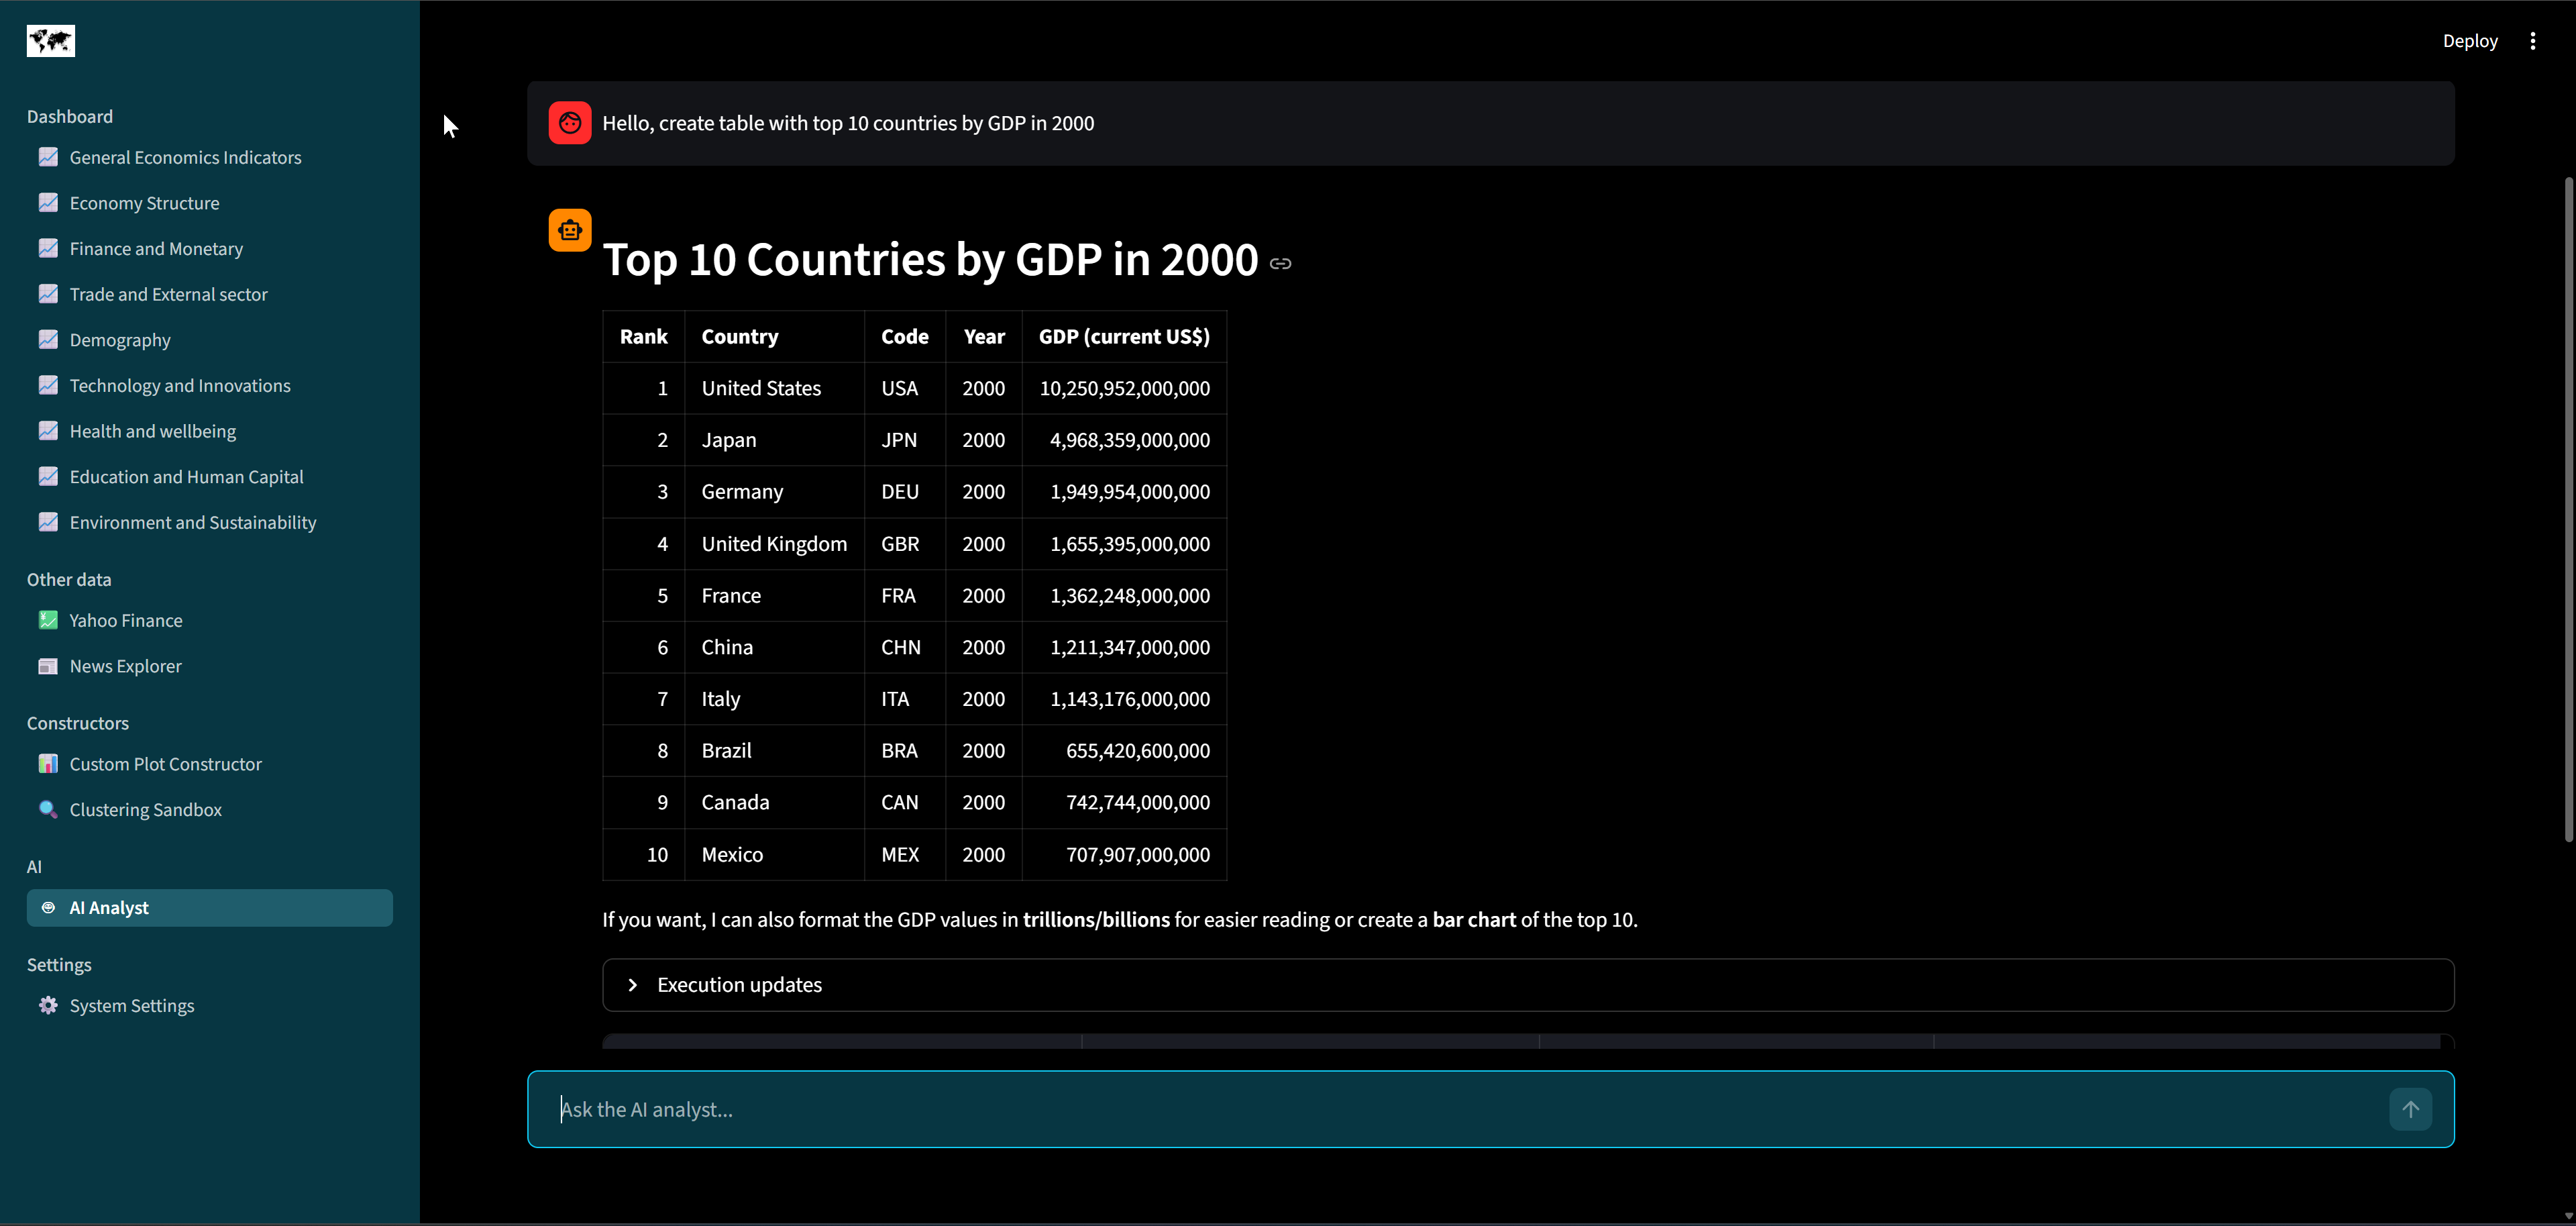
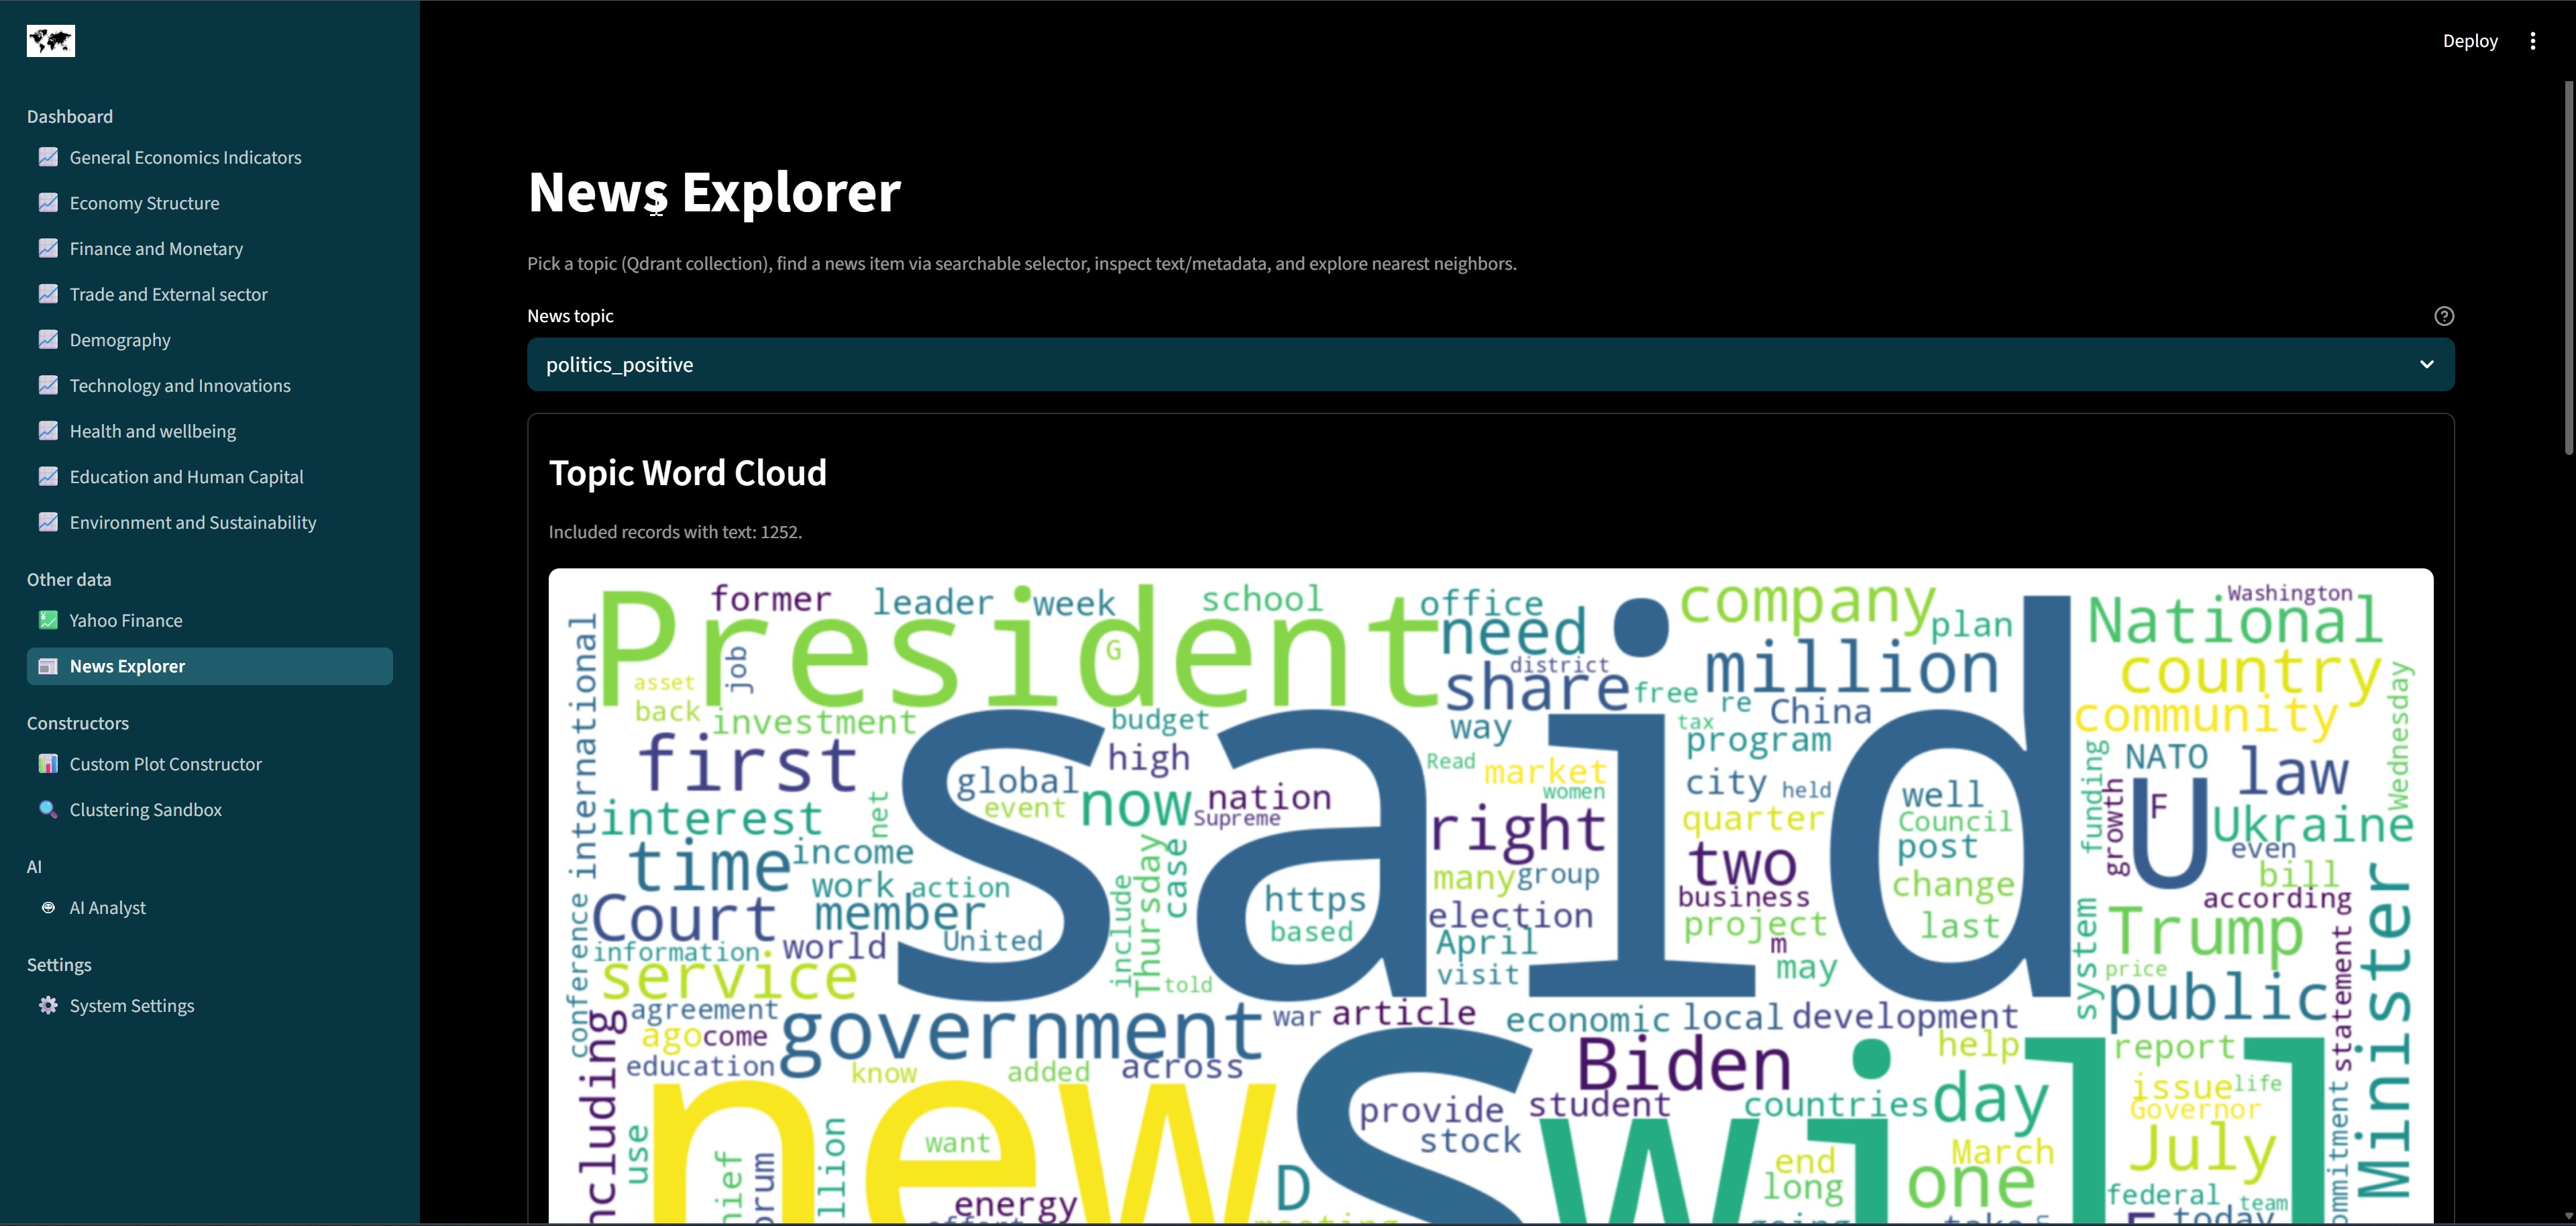
update README.md

diff --git a/README.md b/README.md
@@ -1,55 +1,78 @@
 # Ultimate Macroeconomics Dashboard
 
+Technical stack (not exhaustive):
+
+![Visual Studio Code](https://img.shields.io/badge/Visual%20Studio%20Code-0078d7.svg?style=for-the-badge&logo=visual-studio-code&logoColor=white)
+![Google Gemini](https://img.shields.io/badge/google%20gemini-8E75B2?style=for-the-badge&logo=google%20gemini&logoColor=white)
+![Claude](https://img.shields.io/badge/Claude-D97757?style=for-the-badge&logo=claude&logoColor=white)
+![GitHub Copilot](https://img.shields.io/badge/github_copilot-8957E5?style=for-the-badge&logo=github-copilot&logoColor=white)
 ![Docker](https://img.shields.io/badge/docker-%230db7ed.svg?style=for-the-badge&logo=docker&logoColor=white)
+![GitHub](https://img.shields.io/badge/github-%23121011.svg?style=for-the-badge&logo=github&logoColor=white)
 ![Python](https://img.shields.io/badge/python-3670A0?style=for-the-badge&logo=python&logoColor=ffdd54)
 ![uv](https://img.shields.io/badge/uv-%23DE5FE9.svg?style=for-the-badge&logo=uv&logoColor=white)
+![PyPi](https://img.shields.io/badge/pypi-%23ececec.svg?style=for-the-badge&logo=pypi&logoColor=1f73b7)
 ![Streamlit](https://img.shields.io/badge/Streamlit-%23FE4B4B.svg?style=for-the-badge&logo=streamlit&logoColor=white)
 ![FastAPI](https://img.shields.io/badge/FastAPI-005571?style=for-the-badge&logo=fastapi)
+![Pydantic](https://img.shields.io/badge/pydantic-%23E92063.svg?style=for-the-badge&logo=pydantic&logoColor=white)
+![Polars](https://img.shields.io/badge/polars-0075ff?style=for-the-badge&logo=polars&logoColor=white)
+![Plotly](https://img.shields.io/badge/Plotly-%233F4F75.svg?style=for-the-badge&logo=plotly&logoColor=white)
 ![LangGraph](https://img.shields.io/badge/langgraph-%231C3C3C.svg?style=for-the-badge&logo=langgraph&logoColor=white)
 ![Postgres](https://img.shields.io/badge/postgres-%23316192.svg?style=for-the-badge&logo=postgresql&logoColor=white)
 ![Qdrant](https://img.shields.io/badge/qdrant-%23dc2626.svg?style=for-the-badge&logo=qdrant&logoColor=white)
+![DuckDuckGo](https://img.shields.io/badge/duckduckgo-de5833?style=for-the-badge&logo=duckduckgo&logoColor=white)
 
-[`Ultimate Macroeconomics Dashboard`](https://github.com/alexveider1/Ultimate-Macroeconomics-Dashboard) is an AI-powered macroeconomic analytics suite: a Streamlit dashboard backed by Postgres + Qdrant, plus FastAPI services for an LLM analyst, forecasting, clustering, on-demand ingestion, and a Python sandbox. **70+** World Bank indicators, **30 000+** news articles, **50+** Yahoo Finance tickers, **80+** prebuilt charts.
+[`Ultimate Macroeconomics Dashboard`](https://github.com/alexveider1/Ultimate-Macroeconomics-Dashboard) is an AI-powered macroeconomic analytics tool: a Streamlit dashboard backed by Postgres + Qdrant, plus FastAPI services for an AI analyst, forecasting, clustering, on-demand data ingestion, and a Python sandbox. **70+** World Bank indicators, **30 000+** news articles, **50+** Yahoo Finance tickers, **150+** prebuilt charts.
 
-Full stack: nine Docker containers — `db`, `vector_db`, `downloader_general`, `app`, `agent`, `forecaster`, `clustering`, `downloader_extra`, `python_sandbox`. Architecture details and conventions live in [`CLAUDE.md`](CLAUDE.md); deep configuration lives in [`_container_data/config.yaml`](_container_data/config.yaml).
+The full stack consists of 9 `Docker` containers — `db`, `vector_db`, `downloader_general`, `app`, `agent`, `forecaster`, `clustering`, `downloader_extra`, and `python_sandbox`. The project follows a strict micro-service design, with each container responsible for one capability:
+
+* `db` — relational database (`PostgreSQL`) for tabular data from `World Bank Data API` and `Yahoo Finance`.
+* `vector_db` — vector database (`Qdrant`) for news article embeddings sourced from the `Webz.io` open dataset.
+* `downloader_general` — one-shot job that fetches the initial dataset (World Bank, Yahoo Finance, news) into the databases.
+* `app` — the `Streamlit` dashboard itself (this is what the user opens in the browser).
+* `agent` — `FastAPI` backend hosting the multi-agent AI analyst (LangGraph supervisor + specialised workers).
+* `forecaster` — `FastAPI` micro-service for time-series forecasting (`pmdarima`, `prophet`, `chronos`).
+* `clustering` — `FastAPI` micro-service for unsupervised clustering (KMeans, DBSCAN).
+* `downloader_extra` — `FastAPI` micro-service that downloads additional World Bank indicators on demand.
+* `python_sandbox` — `FastAPI` sandbox that executes LLM-generated code in an isolated environment.
 
 ## Quick start
 
-Prerequisites: Docker with the Compose plugin. NVIDIA GPU is optional (improves the forecaster).
+Prerequisites: Docker (with the Compose plugin). An NVIDIA GPU is optional, though it significantly improves the forecaster's performance.
 
 ```bash
-# 1. Clone
+# 1. Clone repo
 git clone https://github.com/alexveider1/Ultimate-Macroeconomics-Dashboard
 cd Ultimate-Macroeconomics-Dashboard/
 
-# 2. Create the env file (fill in your secrets)
+# 2. Create the `.env` file (fill in your secrets)
 cp _container_data/.env.example _container_data/.env
 $EDITOR _container_data/.env
 
-# 3. Point the agent at an OpenAI-compatible LLM
-$EDITOR _container_data/config.yaml      # set shared.openai_* keys
+# 3. Set the shared.openai_* keys in `_container_data/config.yaml`
+$EDITOR _container_data/config.yaml
 
-# 4. (No GPU) remove the `deploy:` block under `forecaster:` in docker-compose.yaml
+# 4. If no CUDA-capable GPU is available, remove the `deploy` block under `forecaster:` in docker-compose.yaml
+$EDITOR docker-compose.yaml
 
 # 5. Build and run
 docker compose up --build
 ```
 
-Open <http://localhost:8501>. First boot does a one-shot ingestion (~1–2h) that fills both databases; the dashboard stays available while it runs.
+On first boot, the stack downloads the datasets and inserts them into both databases (relational and vector). How long this takes depends heavily on your network speed, but it usually takes around 30 minutes. The dashboard is not available while the data is downloading; once the download completes, it becomes available at <http://localhost:8501>.
 
 ### Required `.env` variables
 
-| Variable                   | Used by                       | Purpose                                                                |
-| -------------------------- | ----------------------------- | ---------------------------------------------------------------------- |
-| `POSTGRES_USER`            | `db`, `downloader_general`, `downloader_extra`, `app` | Postgres superuser created natively by the `postgres:18` image on first boot. |
-| `POSTGRES_PASSWORD`        | same                          | Password for the superuser.                                            |
-| `POSTGRES_DB`              | `db`                          | Default database created on first boot (typically `postgres`).         |
-| `POSTGRES_LLM_USER`        | `downloader_general`, `agent`, `app` | Read-only role used by the AI analyst and the dashboard's bulk reads to query the database. |
-| `POSTGRES_LLM_PASSWORD`    | same                          | Password for the read-only role (rotatable; takes effect on next boot).|
-| `QDRANT__SERVICE__API_KEY` | `vector_db`, `agent`, `app`   | Bearer token protecting the Qdrant HTTP API.                           |
-| `OPENAI_API_KEY`           | `agent`                       | API key for the LLM/embedding provider in `config.yaml`.               |
+| Variable                   | Purpose                                                                |
+| -------------------------- | ---------------------------------------------------------------------- |
+| `POSTGRES_USER`            | Postgres superuser created natively by the `postgres:18` image on first boot. |
+| `POSTGRES_PASSWORD`        | Password for the superuser.                                            |
+| `POSTGRES_DB`              | Default database created on first boot (typically `postgres`).         |
+| `POSTGRES_LLM_USER`        | Read-only role used by the AI analyst and the dashboard's bulk reads to query the database. |
+| `POSTGRES_LLM_PASSWORD`    | Password for the read-only role (rotatable; takes effect on next boot). |
+| `QDRANT__SERVICE__API_KEY` | Bearer token protecting the Qdrant HTTP API.                           |
+| `OPENAI_API_KEY`           | API key for the LLM/embedding provider in `config.yaml`.               |
 
-> Never commit `_container_data/.env`. It is gitignored.
+> Never commit `_container_data/.env`
 
 ### Required `config.yaml` keys
 
@@ -66,21 +89,7 @@ Everything else has working defaults. See [`_container_data/config.yaml`](_conta
 
 ## LLM requirements
 
-The agent needs a model with reasoning, tool/function calling, vision (to read rendered charts), and ≥256k context. Any recent flagship from OpenAI, Google, Anthropic, Qwen, or DeepSeek works. Local models served via [vLLM](https://github.com/vllm-project/vllm) on a strong GPU also work.
-
-## Local development
-
-Per service (each has its own `pyproject.toml` + `uv.lock`):
-
-```bash
-cd app           # or agent, forecaster, clustering, downloader_*, python_sandbox
-uv sync --group dev
-uv run pytest tests
-uv run streamlit run app.py        # for the app
-uv run uvicorn main:app --reload   # for FastAPI services
-```
-
-Linting / type-checking: `uv run ruff check .` and `uv run ty .`. Tests under `<service>/tests/`; testcontainers-backed integration tests need Docker running.
+The agent needs a model with reasoning, tool/function calling, vision, and ≥256k context. Any recent flagship from OpenAI, Google, Anthropic, Qwen, or DeepSeek works. Local models served via [vLLM](https://github.com/vllm-project/vllm) on a powerful GPU also work.
 
 ## Illustrations
 
@@ -89,6 +98,61 @@ Linting / type-checking: `uv run ruff check .` and `uv run ty .`. Tests under `<
 | ![](app/assets/structure.png) | ![](app/assets/ai_structure.png) |
 | ![](app/assets/1.png)         | ![](app/assets/2.png)            |
 | ![](app/assets/3.png)         | ![](app/assets/4.png)            |
+| ![](app/assets/5.png)         | ![](app/assets/6.png)            |
+| ![](app/assets/7.png)         | ![](app/assets/8.png)            |
+| ![](app/assets/9.png)         | ![](app/assets/10.png)            |
+| ![](app/assets/11.png)         | ![](app/assets/12.png)            |
+| ![](app/assets/13.png)         | ![](app/assets/14.png)            |
+
+## Custom theming
+
+The active colour palette is controlled by `_container_data/themes.yaml`. The bundled themes (`dark`, `dark-blue`, `light-green`) drive both the Plotly chart template and the Streamlit page colours. To change the palette, set the `active` key:
+
+```yaml
+active: dark-blue
+themes:
+  dark:
+    ...
+  dark-blue:
+    ...
+  light-green:
+    ...
+```
+
+Streamlit also reads its theme from `app/.streamlit/config.toml`. If you want to customise the dashboard chrome directly, edit it there:
+
+```toml
+[theme]
+primaryColor = "#10c8f1"
+backgroundColor = "#000000"
+secondaryBackgroundColor = "#073642"
+textColor = "#ffffff"
+```
+
+## Adding extra indicators
+
+To add more World Bank indicators to the dashboard, append them to `_container_data/_configs/world_bank_download_config.json`. Each top-level key is one dashboard page:
+
+```json
+{
+    "General Economics Indicators": [
+        {
+            "name": "GDP",
+            "id": "NY.GDP.MKTP.CD",
+            "db": 2
+        },
+        {
+            "name": "GDP_PPP",
+            "id": "NY.GDP.MKTP.PP.CD",
+            "db": 2
+        },
+        ...
+    ],
+    ...
+}
+```
+
+`downloader_general` will pick the new entries up on the next clean boot. Already-running stacks can fetch new indicators on demand via the AI analyst (which delegates to `downloader_extra`).
 
 ## Disclaimer
 